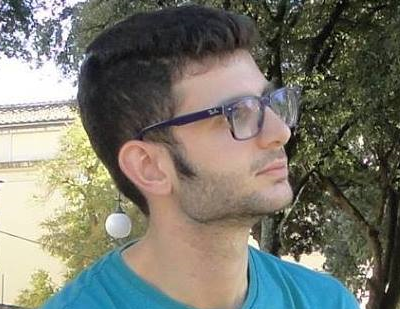
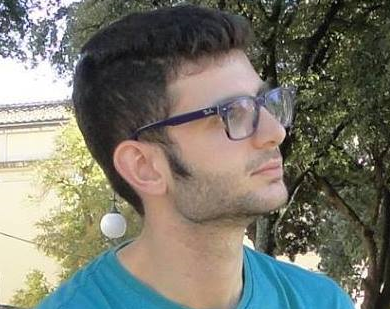
correzzione body

diff --git a/stili.css b/stili.css
@@ -4,8 +4,10 @@
   box-sizing: border-box;
 }
 
-.sfondo{
+body{
   background-image: linear-gradient(to top, #409fff, #ffffff);
+}
+.sfondo{
   display: flex;
   flex-direction: column;
   justify-content: space-around;
@@ -56,7 +58,7 @@ em{
 }
 .centro{
   color: white;
-  width: 400px;
+  width: 390px;
   height: 250px;
   text-align: left;
   padding: 20px 20px 20px 20px;
@@ -75,7 +77,7 @@ em{
 }
 
 .contatti{
-  width:400px;
+  width:390px;
   display: flex;
   justify-content: space-between;
   flex-direction: row;
@@ -101,7 +103,7 @@ P{
     font: italic bold 12px/20px Georgia, serif;
 }
 /*cambiamenti versione desktop*/
-@media only screen and (min-width: 400px){
+@media only screen and (min-width: 500px){
 
   img.image{
     margin-left: auto;

diff --git a/index.html b/index.html
@@ -12,9 +12,9 @@
     <div class='sfondo'>
         <div class='intro-foto'>
           <picture>
-            <source media='(min-width: 401px)'
+            <source media='(min-width: 451px)'
                     srcset='immagini/foto-grande.png'/>
-            <source media='(max-width: 400px)'
+            <source media='(max-width: 450px)'
                     srcset='immagini/foto.png'/>
             <img class='image' src='immagini/foto.png'/>
           </picture>
